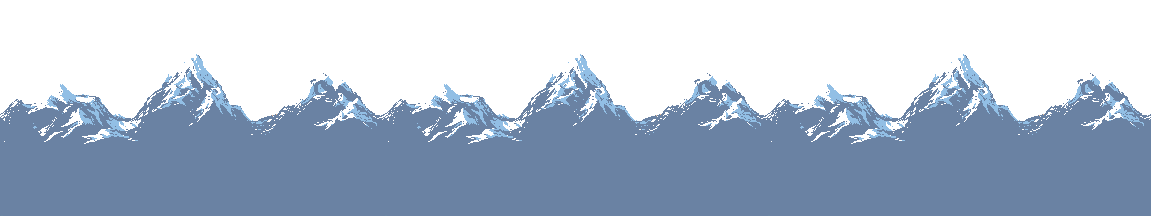
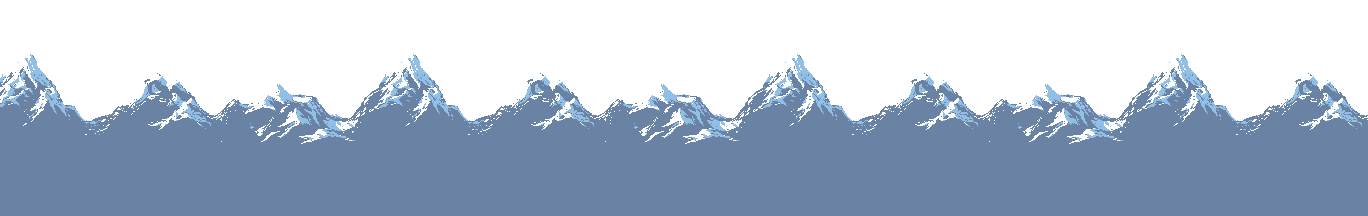
Added mountains and new title image

Changed region(s): [[0.0, 0.25, 1.0, 0.6667]]

diff --git a/VillagersStory/core/src/com/villagersstory/game/GameDisplay.java b/VillagersStory/core/src/com/villagersstory/game/GameDisplay.java
@@ -13,6 +13,8 @@ import com.villagersstory.game.GameObjects.animal.BirdAdapter;
 import com.villagersstory.game.GameObjects.animal.Cat;
 import com.villagersstory.game.GameObjects.animal.Dog;
 
+import com.villagersstory.game.GameObjects.tree.Tree;
+import com.villagersstory.game.GameObjects.tree.TreeFactory;
 import com.villagersstory.game.GameObjects.tree.TreeOak;
 
 
@@ -28,6 +30,7 @@ public class GameDisplay {
     final VillagerStory game;
     GameClock clock;
     Texture bgImage;
+    Texture mountainImage;
     Rectangle bg;
     List<House> houses = new ArrayList<>();
     List<NPC> npc = new ArrayList<>();
@@ -35,7 +38,8 @@ public class GameDisplay {
     List<Animal> animals = new ArrayList<>();
     List<BirdAdapter> birds = new ArrayList<>();
 
-    List<TreeOak> trees = new ArrayList<>();
+    TreeFactory treeFactory = new TreeFactory();
+    List<Tree> trees = new ArrayList<>();
 
     Random rand = new Random();
 
@@ -48,6 +52,7 @@ public class GameDisplay {
             e.printStackTrace();
         }
         bgImage = new Texture(Gdx.files.internal("background ex.png"));
+        mountainImage = new Texture(Gdx.files.internal("sky/mountains.png"));
         bg = new Rectangle();
         // the bottom screen edge
         bg.width = 1280;
@@ -57,21 +62,20 @@ public class GameDisplay {
         generateNPC();
 
         generateAnimal();
-
-        generateTree();
+        trees = treeFactory.trees;
 
     }
 
     public void render() {
+        game.batch.draw(mountainImage, 0, 520, 1368, 216);
         game.batch.draw(bgImage, bg.x, bg.y, bg.width, bg.height);
+
         displayTime();
         displayHouse();
-
-        displayNPC();
-        displayAnimal();
-
         displayTree();
 
+        displayAnimal();
+        displayNPC();
     }
 
     public void sound(){
@@ -111,19 +115,9 @@ public class GameDisplay {
     }
 
 
-    public void generateTree(){
-        for(int i=0; i<5; i++) {
-            trees.add(new TreeOak());
-            trees.get(i).locationX = rand.nextInt(1280);
-            trees.get(i).locationY = rand.nextInt(540);
-       }
-
-    }
-
-
     private void displayTree() {
-        for(int i=0; i<5; i++) {
-            game.batch.draw(trees.get(i).image, trees.get(i).locationX, trees.get(i).locationY, 128, 128);
+        for(int i=0; i< trees.size(); i++) {
+            game.batch.draw(trees.get(i).getImage(), trees.get(i).getLocationX(), trees.get(i).getLocationY(), 128, 128);
         }
     }
 

diff --git a/VillagersStory/core/src/com/villagersstory/game/GameObjects/tree/TreePine.java b/VillagersStory/core/src/com/villagersstory/game/GameObjects/tree/TreePine.java
@@ -1,4 +1,50 @@
 package com.villagersstory.game.GameObjects.tree;
 
-public class TreePine {
+import com.badlogic.gdx.Gdx;
+import com.badlogic.gdx.graphics.Texture;
+import com.villagersstory.game.GameObjects.GameObject;
+
+public class TreePine extends GameObject implements Tree{
+    String imgFile = "tree/tree_pine.png";
+    public TreePine() {
+        image = new Texture(Gdx.files.internal(imgFile));
+    }
+    @Override
+    public Texture getImage() {
+        return image;
+    }
+    @Override
+    public int getLocationX() {
+        return locationX;
+    }
+
+    @Override
+    public int getLocationY() {
+        return locationY;
+    }
+
+    @Override
+    public void setLocationX(int locationX) {
+        this.locationX = locationX;
+    }
+
+    @Override
+    public void setLocationY(int locationY) {
+        this.locationY = locationY;
+    }
+
+    @Override
+    public void generate() {
+
+    }
+
+    @Override
+    public void reactWind() {
+
+    }
+
+    @Override
+    public void dropFruit() {
+
+    }
 }

diff --git a/VillagersStory/core/src/com/villagersstory/game/GameObjects/tree/TreeCoconut.java b/VillagersStory/core/src/com/villagersstory/game/GameObjects/tree/TreeCoconut.java
@@ -4,15 +4,17 @@ import com.badlogic.gdx.Gdx;
 import com.badlogic.gdx.graphics.Texture;
 import com.villagersstory.game.GameObjects.GameObject;
 
-public class TreeOak extends GameObject implements Tree{
-    String imgFile = "tree/tree_oak.png";
-    public TreeOak() {
+public class TreeCoconut extends GameObject implements Tree{
+    String imgFile = "tree/tree_coconut.png";
+    public TreeCoconut() {
         image = new Texture(Gdx.files.internal(imgFile));
     }
+
     @Override
     public Texture getImage() {
         return image;
     }
+
     @Override
     public int getLocationX() {
         return locationX;
@@ -32,6 +34,7 @@ public class TreeOak extends GameObject implements Tree{
     public void setLocationY(int locationY) {
         this.locationY = locationY;
     }
+
     @Override
     public void generate() {
 

diff --git a/VillagersStory/core/src/com/villagersstory/game/GameObjects/tree/TreeFactory.java b/VillagersStory/core/src/com/villagersstory/game/GameObjects/tree/TreeFactory.java
@@ -1,0 +1,27 @@
+package com.villagersstory.game.GameObjects.tree;
+
+import java.util.ArrayList;
+import java.util.Random;
+
+public class TreeFactory {
+    Random rand = new Random();
+    public ArrayList<Tree> trees = new ArrayList<>();
+
+    public TreeFactory() {
+        createTree();
+        generateTree();
+    }
+
+    public void createTree(){
+        trees.add(new TreeDead());
+        trees.add(new TreeCoconut());
+        trees.add(new TreePine());
+        trees.add(new TreeOak());
+    }
+    public void generateTree(){
+        for(int i=0; i<trees.size(); i++){
+            trees.get(i).setLocationX(rand.nextInt(1280));
+            trees.get(i).setLocationY(rand.nextInt(540));
+        }
+    }
+}

diff --git a/VillagersStory/core/src/com/villagersstory/game/GameObjects/tree/TreeDead.java b/VillagersStory/core/src/com/villagersstory/game/GameObjects/tree/TreeDead.java
@@ -4,9 +4,9 @@ import com.badlogic.gdx.Gdx;
 import com.badlogic.gdx.graphics.Texture;
 import com.villagersstory.game.GameObjects.GameObject;
 
-public class TreeOak extends GameObject implements Tree{
-    String imgFile = "tree/tree_oak.png";
-    public TreeOak() {
+public class TreeDead extends GameObject implements Tree{
+    String imgFile = "tree/tree_dead.png";
+    public TreeDead() {
         image = new Texture(Gdx.files.internal(imgFile));
     }
     @Override
@@ -32,6 +32,7 @@ public class TreeOak extends GameObject implements Tree{
     public void setLocationY(int locationY) {
         this.locationY = locationY;
     }
+
     @Override
     public void generate() {
 

diff --git a/VillagersStory/core/src/com/villagersstory/game/GameObjects/tree/Tree.java b/VillagersStory/core/src/com/villagersstory/game/GameObjects/tree/Tree.java
@@ -1,4 +1,14 @@
 package com.villagersstory.game.GameObjects.tree;
 
+import com.badlogic.gdx.graphics.Texture;
+
 public interface Tree {
+    Texture getImage();
+    int getLocationX();
+    int getLocationY();
+    void setLocationX(int locationX);
+    void setLocationY(int locationY);
+    void generate();
+    void reactWind();
+    void dropFruit();
 }

diff --git a/VillagersStory/core/src/com/villagersstory/game/MainMenuScreen.java b/VillagersStory/core/src/com/villagersstory/game/MainMenuScreen.java
@@ -24,7 +24,7 @@ public class MainMenuScreen implements Screen {
         camera = new OrthographicCamera();
         camera.setToOrtho(false, 1280, 720);
 
-        bgImage = new Texture(Gdx.files.internal("../core/assets/title.png"));
+        bgImage = new Texture(Gdx.files.internal("title3.png"));
 
         bg = new Rectangle();
         bg.width = 1280;

diff --git a/VillagersStory/core/src/com/villagersstory/game/GameObjects/GameObject.java b/VillagersStory/core/src/com/villagersstory/game/GameObjects/GameObject.java
@@ -12,6 +12,11 @@ import com.badlogic.gdx.graphics.Texture;
 public class GameObject {
     public Texture image;
     public Sound sound;
+    public int width;
+    public int height;
     public int locationX;
     public int locationY;
+    public void display(){
+
+    }
 }
